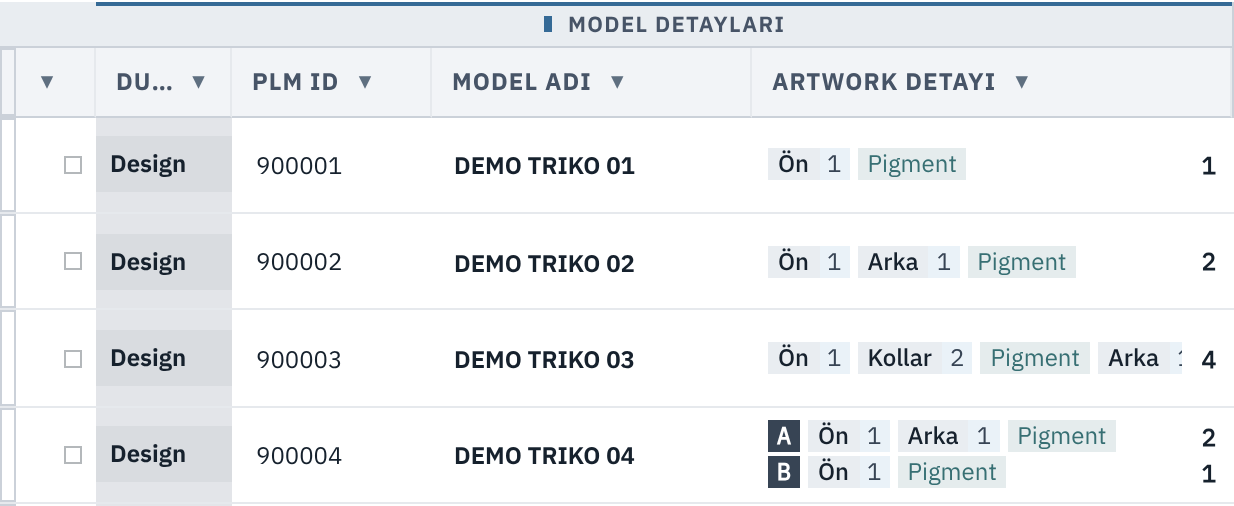
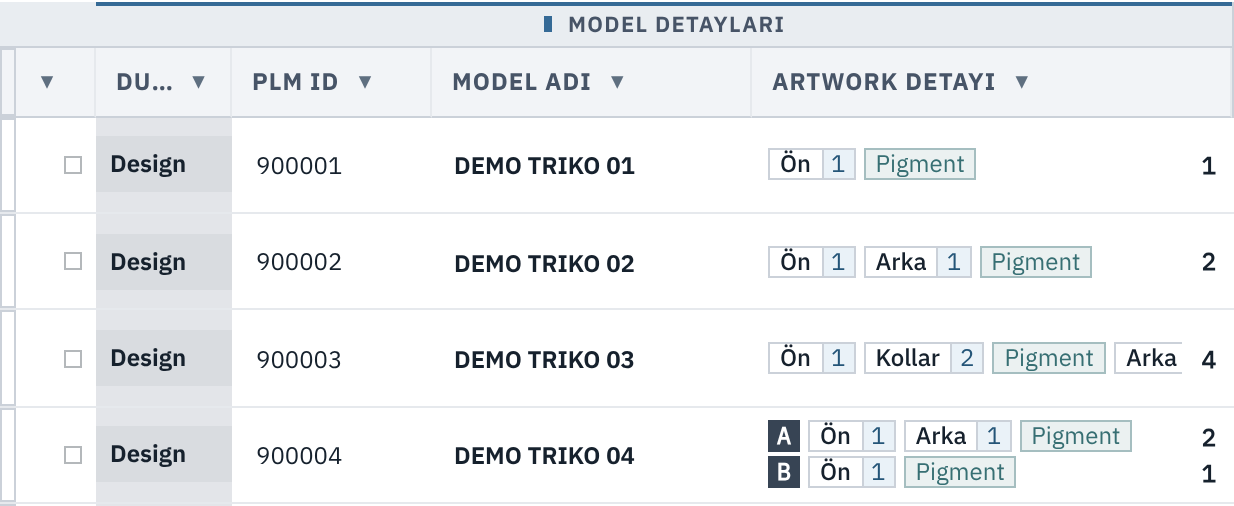
Artwork kartları: çerçeveli bölge ve teknik etiketleri
- Ürün sahibi kararıyla tasarım sözleşmesine dar, adlandırılmış istisna:
  .kolArtworkChip 1px --ui-group-divider sınır + adet bölmesi iç ayracı,
  .kolArtworkTech kendi grafik tonunun %45 karışımıyla 1px sınır.
- İstisna ui-manifest-contract testinde tam selector/değerle sabitlendi ve
  DESIGN_SYSTEM.md §1'e işlendi; genel modül kenarlık yasağı korunuyor.
- Adet bölmesi seçili mavi zeminde; sürüm notu görseli güncellendi.

Claude-Session: https://claude.ai/code/session_01HKcjmk8VegBfei59sUCnsi

diff --git a/resources/app/tests/ui-manifest-contract.test.js b/resources/app/tests/ui-manifest-contract.test.js
@@ -107,6 +107,17 @@ const sharedFieldBorder = d => d.file==='ui-components.css' && SHARED_FIELD_SELE
 // User-chosen subtle selector boundary; exact shared selector/token only.
 const sharedRowSelectionBorder = d => d.file==='ui-components.css' && d.selector==='html:root[data-ui-system="manifest"] body[data-ui-migrated] table input[type="checkbox"]:is(.rowChk,.shipCompareChk,.shipRowChk,[data-tr-check],[data-ship-chk-all],[data-fabric-pick],[data-bin-id],[data-cpa-queue-check],[data-dc-item],[data-dc-toggle-all],[data-ta-pick],[data-ta-all],[data-act="selectRow"],[data-act="selectAll"],[data-xim="include"],#kolSelAll,#shipChkAll,[id$="_selAll"])' && d.prop==='border' && d.value==='1px solid var(--ui-group-divider)';
 const sharedNotificationBorder = d => d.file==='ui-components.css' && classicSelector(d.selector)==='.uiFeedback' && d.prop==='border' && d.value==='1px solid var(--ui-group-divider)';
+// Ürün sahibi kararı (Artwork Detayı bölge kartları): kart/etiket kenarlığı yalnız
+// bu tam selector'larda ve tasarım tokenlarıyla. Genel bir modül istisnası değildir.
+const ARTWORK_TONES={'1':'--ui-chart-3','2':'--ui-chart-4','3':'--ui-chart-5','4':'--ui-chart-8','5':'--ui-accent'};
+const artworkChipBorder = d => {
+ if(d.file!=='ui-components.css')return false;
+ const selector=classicSelector(d.selector);
+ if(selector==='#kolTable tbody .kolArtworkChip')return d.prop==='border'&&d.value==='1px solid var(--ui-group-divider)';
+ if(selector==='#kolTable tbody .kolArtworkChip i')return d.prop==='border-inline-start'&&d.value==='1px solid var(--ui-group-divider)';
+ const tone=selector.match(/^#kolTable tbody \.kolArtworkTech\[data-tone="(\d)"\]$/);
+ return Boolean(tone&&ARTWORK_TONES[tone[1]]&&d.prop==='border'&&d.value===`1px solid color-mix(in srgb,var(${ARTWORK_TONES[tone[1]]}) 45%,var(--ui-surface))`);
+};
 // Exact shared grid-range rectangle: no new module shadows or broad exemptions.
 const sharedGridRangePerimeter = d => d.file==='ui-components.css'
  && classicSelector(d.selector)===':is(#cpTable,#ordersTable,.blDetailDrawer .blDetailTable) tbody td.blGridRangeCell, table[role="grid"] tbody td.blGridRangeCell'
@@ -129,7 +140,7 @@ test('Manifest permits only shared classic frames and existing table/print borde
    const group=['#cpTable','#ordersTable','#kolTable'].some(id=>d.selector===groupSeparator(id))&&d.prop==='border-inline-start'&&d.value==='1px solid var(--ui-group-divider)';
    const headerColumns=d.selector===':is(#cpTable,#ordersTable,#kolTable) thead tr.colRow th:not(:last-child)'&&d.prop==='border-inline-end'&&d.value==='1px solid var(--ui-row-divider)';
    const printRule=isPrint(d)&&d.selector==='.shipCompare tbody td'&&d.prop==='border-bottom'&&d.value==='1px solid var(--ui-print-rule)';
-   if(!row&&!group&&!headerColumns&&!printRule&&!classicBorder(d)&&!sharedFieldBorder(d)&&!sharedRowSelectionBorder(d)&&!sharedNotificationBorder(d))failures.push(d); // explicit shared-surface restoration
+   if(!row&&!group&&!headerColumns&&!printRule&&!classicBorder(d)&&!sharedFieldBorder(d)&&!sharedRowSelectionBorder(d)&&!sharedNotificationBorder(d)&&!artworkChipBorder(d))failures.push(d); // explicit shared-surface restoration
   }
   if(d.prop==='outline'&&!/^(?:none|0)$/.test(d.value)){
    const cursor=['.blDetailDrawer .blDetailTable td.blGridActiveCell','#cpTable td.blGridActiveCell,#ordersTable td.blGridActiveCell','[data-ui-migrated] .blDetailTable .blGridActiveCell','#view-koleksiyon.kolSpreadsheetWorkspace #kolTable tbody .kolActiveGridCell,#view-koleksiyon.kolSpreadsheetWorkspace #kolTable tbody .kolSpreadsheetActiveCell'].includes(d.selector);
@@ -181,7 +192,7 @@ test('Main column separators cover both header tiers; classic frames do not add 
  }
  const additional=entries.filter(d=>d.prop.startsWith('border')&&d.value==='1px solid var(--ui-group-divider)'&&!rules.includes(d));
  assert.ok(additional.length>0,'Restored surfaces must be bordered');
- assert.ok(additional.every(d=>classicBorder(d)||sharedRowSelectionBorder(d)||sharedNotificationBorder(d)),'Only approved shared surfaces may add another group divider');
+ assert.ok(additional.every(d=>classicBorder(d)||sharedRowSelectionBorder(d)||sharedNotificationBorder(d)||artworkChipBorder(d)),'Only approved shared surfaces may add another group divider');
 });
 test('Shared button contract covers interaction states and restricts explicit variants',()=>{
  const source=read('ui-components.css');

diff --git a/resources/app/public/ui-components.css b/resources/app/public/ui-components.css
@@ -8736,23 +8736,23 @@ html[data-ui-system="manifest"] #kolTable tbody td.kolFabricTd:hover .kolFabricC
 /* Koleksiyon Artwork Detayı bölge kartları (yerleşim: collection-spreadsheet.css). */
 html[data-ui-system="manifest"] #kolTable tbody .kolArtworkPart {font:600 var(--ui-font-2xs)/1 var(--ui-font-mono);background:var(--ui-text-secondary);color:var(--ui-surface)
 }
-html[data-ui-system="manifest"] #kolTable tbody .kolArtworkChip {font-size:var(--ui-font-2xs);line-height:16px;background:var(--ui-surface-soft)
+html[data-ui-system="manifest"] #kolTable tbody .kolArtworkChip {font-size:var(--ui-font-2xs);line-height:14px;background:var(--ui-surface);border:1px solid var(--ui-group-divider)
 }
-html[data-ui-system="manifest"] #kolTable tbody .kolArtworkChip b {font-weight:500;color:var(--ui-text);background:var(--ui-surface-strong)
+html[data-ui-system="manifest"] #kolTable tbody .kolArtworkChip b {font-weight:500;color:var(--ui-text)
 }
-html[data-ui-system="manifest"] #kolTable tbody .kolArtworkChip i {font-style:normal;font-family:var(--ui-font-mono);color:var(--ui-text-secondary);background:var(--ui-selected)
+html[data-ui-system="manifest"] #kolTable tbody .kolArtworkChip i {font-style:normal;font-family:var(--ui-font-mono);color:var(--ui-selected-ink);background:var(--ui-selected);border-inline-start:1px solid var(--ui-group-divider)
 }
-html[data-ui-system="manifest"] #kolTable tbody .kolArtworkTech {font-size:var(--ui-font-2xs);line-height:16px
+html[data-ui-system="manifest"] #kolTable tbody .kolArtworkTech {font-size:var(--ui-font-2xs);line-height:14px
 }
-html[data-ui-system="manifest"] #kolTable tbody .kolArtworkTech[data-tone="1"] {color:var(--ui-chart-3);background:color-mix(in srgb,var(--ui-chart-3) 13%,var(--ui-surface))
+html[data-ui-system="manifest"] #kolTable tbody .kolArtworkTech[data-tone="1"] {color:var(--ui-chart-3);background:color-mix(in srgb,var(--ui-chart-3) 10%,var(--ui-surface));border:1px solid color-mix(in srgb,var(--ui-chart-3) 45%,var(--ui-surface))
 }
-html[data-ui-system="manifest"] #kolTable tbody .kolArtworkTech[data-tone="2"] {color:var(--ui-chart-4);background:color-mix(in srgb,var(--ui-chart-4) 13%,var(--ui-surface))
+html[data-ui-system="manifest"] #kolTable tbody .kolArtworkTech[data-tone="2"] {color:var(--ui-chart-4);background:color-mix(in srgb,var(--ui-chart-4) 10%,var(--ui-surface));border:1px solid color-mix(in srgb,var(--ui-chart-4) 45%,var(--ui-surface))
 }
-html[data-ui-system="manifest"] #kolTable tbody .kolArtworkTech[data-tone="3"] {color:var(--ui-chart-5);background:color-mix(in srgb,var(--ui-chart-5) 13%,var(--ui-surface))
+html[data-ui-system="manifest"] #kolTable tbody .kolArtworkTech[data-tone="3"] {color:var(--ui-chart-5);background:color-mix(in srgb,var(--ui-chart-5) 10%,var(--ui-surface));border:1px solid color-mix(in srgb,var(--ui-chart-5) 45%,var(--ui-surface))
 }
-html[data-ui-system="manifest"] #kolTable tbody .kolArtworkTech[data-tone="4"] {color:var(--ui-chart-8);background:color-mix(in srgb,var(--ui-chart-8) 13%,var(--ui-surface))
+html[data-ui-system="manifest"] #kolTable tbody .kolArtworkTech[data-tone="4"] {color:var(--ui-chart-8);background:color-mix(in srgb,var(--ui-chart-8) 10%,var(--ui-surface));border:1px solid color-mix(in srgb,var(--ui-chart-8) 45%,var(--ui-surface))
 }
-html[data-ui-system="manifest"] #kolTable tbody .kolArtworkTech[data-tone="5"] {color:var(--ui-accent);background:color-mix(in srgb,var(--ui-accent) 13%,var(--ui-surface))
+html[data-ui-system="manifest"] #kolTable tbody .kolArtworkTech[data-tone="5"] {color:var(--ui-accent);background:color-mix(in srgb,var(--ui-accent) 10%,var(--ui-surface));border:1px solid color-mix(in srgb,var(--ui-accent) 45%,var(--ui-surface))
 }
 html[data-ui-system="manifest"] #kolTable tbody .kolArtworkTotal {font:600 var(--ui-font-xs) var(--ui-font-mono);font-variant-numeric:tabular-nums;color:var(--ui-text)
 }

diff --git a/DESIGN_SYSTEM.md b/DESIGN_SYSTEM.md
@@ -109,6 +109,11 @@ diğer grafik işaretçilerine veya kart/kontrol köşelerine uygulanmaz.
 6. Panel, modül ve kontrol sınırları: yalnız ortak `ui-components.css`
    üzerinde `--ui-group-divider` ile 1px sınır; giriş alanları `--ui-field-border` (§5). Checkbox'ta durum
    okunabilirliği, kullanıcı avatarında logo ile eşit `--ui-mark-radius` köşe uygulanır.
+   Ürün sahibi kararıyla tek tablo içi istisna: Koleksiyon Artwork Detayı bölge
+   kartı (`.kolArtworkChip`) 1px `--ui-group-divider` sınır ve adet bölmesinde
+   aynı tokenla iç ayraç; teknik etiketi (`.kolArtworkTech`) kendi grafik
+   tonunun %45 karışımıyla 1px sınır taşır. İstisna `tests/ui-manifest-contract.test.js`
+   içinde tam selector/değerle sabitlenir; başka hücre bileşenine genişletilmez.
 7. Basılı/dışa aktarılan belge kendi sabit çıktı sözleşmesini korur (§8).
 Satır seçicileri mevcut sade `--ui-group-divider` konturunu kullanır; boş zemin şeffaftır. Akış dolgusu Motion+ içinde merkezden açılır. Turuncu değişiklik çizgisi mavi seçim dolgusunun üzerinde ayrı kalır. Tüm satırın yumuşak aydınlatma katmanı yalnız fareyle girilen satırda oluşturulur ve çıkış geçişi bitince kaldırılır.
 
